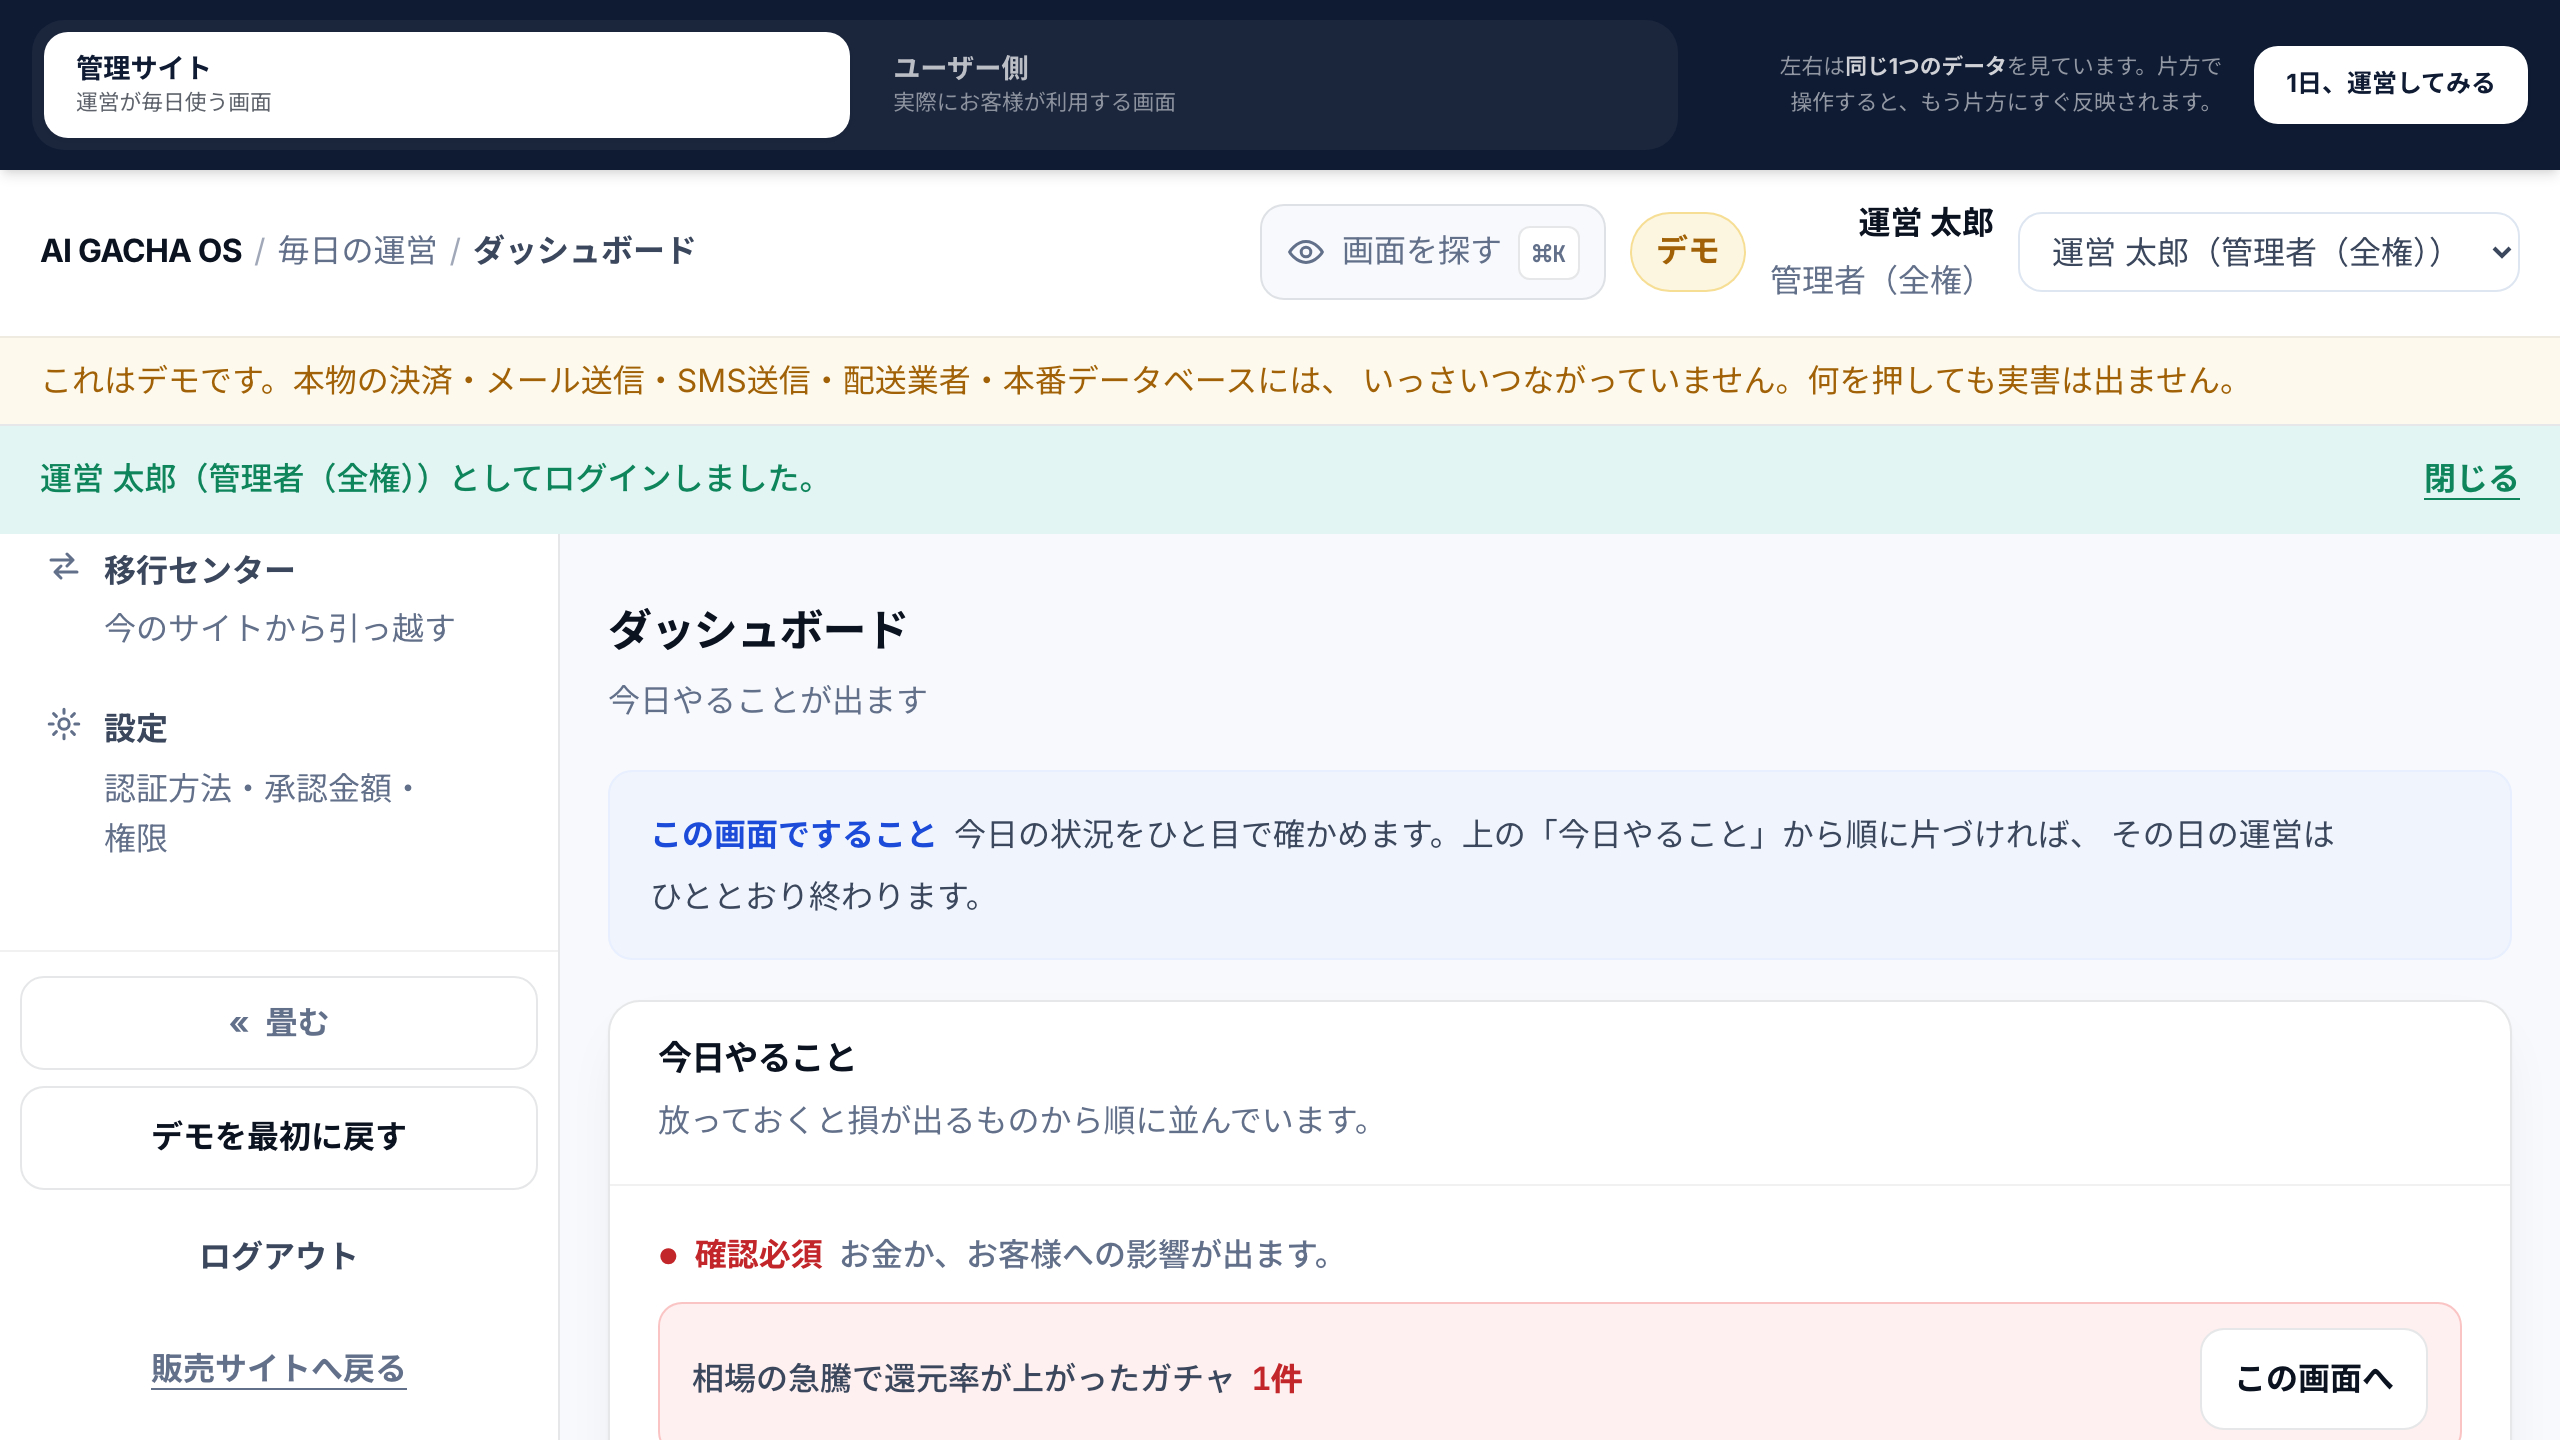
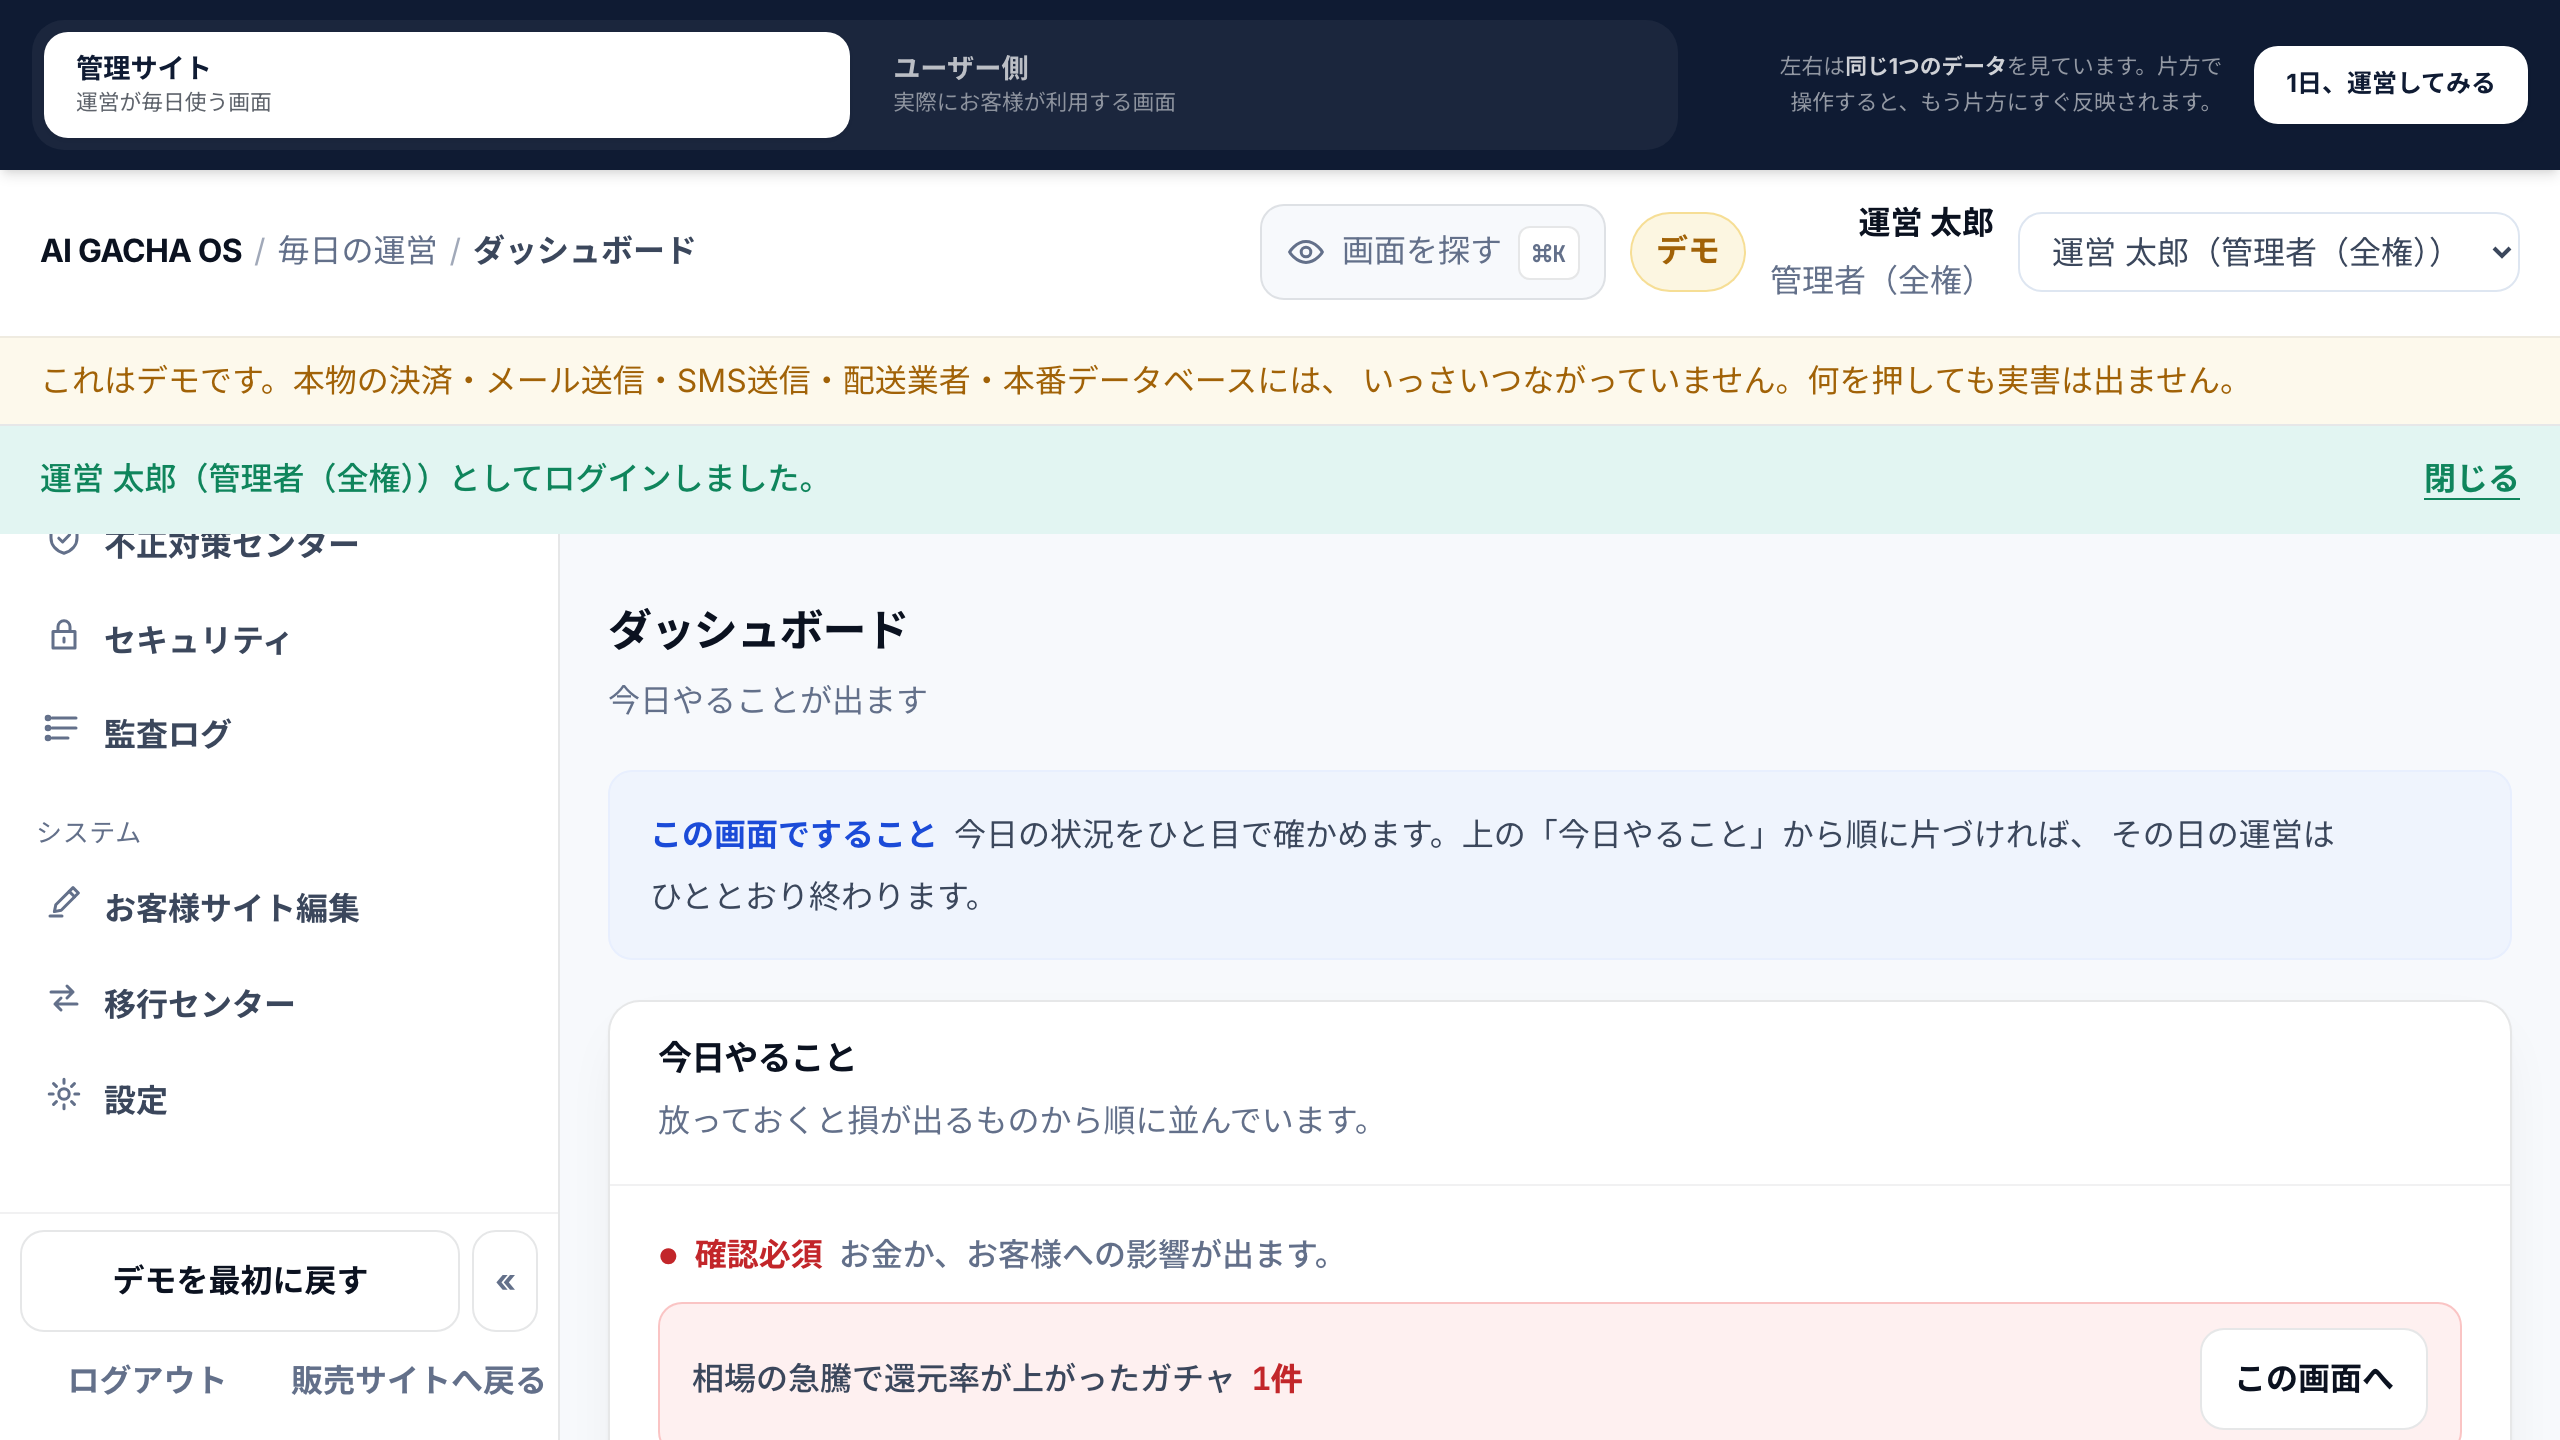
refactor(console): 左メニューの一覧性を上げる（項目52・6）
21項目すべてに名前＋説明の2行を出していたため1項目56pxとなり、
900pxの画面でも4項目しか見えず、毎回スクロールが必要だった。

・説明は、いま開いている項目にだけ出す（他はマウスで title、⌘K検索でも表示）
・最下部の4段積み（約190px常時占有）を2段に圧縮
表示できる項目が 4 → 9 に増加。

名前は aria-label に固定し、見た目を変えても到達確認が壊れないようにした。

検証：4解像度×21項目=84回の到達確認・テスト235件すべて通過

diff --git a/gacha-os-lp/components/console/Shell.tsx b/gacha-os-lp/components/console/Shell.tsx
@@ -397,45 +397,82 @@ function SideNav({
         ))}
       </div>
 
-      {/* 下：絶対にスクロールしない場所 */}
-      <div className="flex-none border-t border-edge2 bg-paper px-2.5 py-3 pb-[max(0.75rem,env(safe-area-inset-bottom))]">
-        {onToggleCollapse && (
-          <button
-            type="button"
-            onClick={onToggleCollapse}
-            aria-label={collapsed ? "メニューを広げる" : "メニューを畳む"}
-            className="nb mb-2 flex w-full items-center justify-center gap-2 rounded-xl border border-edge px-3 py-2 text-note font-bold text-slate3 hover:bg-mist"
-          >
-            <span aria-hidden>{collapsed ? "»" : "«"}</span>
-            {!collapsed && "畳む"}
-          </button>
-        )}
+      {/* ══ 下：絶対にスクロールしない場所 ══
 
+          ★ここを大きくしないこと。
+            ここが厚くなった分だけ、上の一覧が薄くなります。
+            以前は「畳む」「デモを最初に戻す」「ログアウト」
+            「販売サイトへ戻る」を縦4段に積んでいて、
+            それだけで約190px を常に使っていました。
+            900pxの画面では、メニュー一覧に残るのが
+            半分以下になってしまいます。
+
+            使う回数の少ないものほど、小さく置きます。
+            ログアウトは1日1回、販売サイトへ戻るはもっと少ない。
+            毎日何十回も使う一覧のほうに、場所を渡します。 */}
+      <div className="flex-none border-t border-edge2 bg-paper px-2.5 py-2 pb-[max(0.5rem,env(safe-area-inset-bottom))]">
         {collapsed ? (
-          <button
-            type="button"
-            onClick={onLogout}
-            title="ログアウト"
-            aria-label="ログアウト"
-            className="flex w-full items-center justify-center rounded-xl px-3 py-2.5 text-slate2 hover:bg-mist"
-          >
-            <Icon name="lock" />
-          </button>
-        ) : (
-          <div className="space-y-2">
-            <Btn full onClick={onReset}>
-              デモを最初に戻す
-            </Btn>
-            <Btn full kind="ghost" onClick={onLogout}>
-              ログアウト
-            </Btn>
-            <Link
-              href="/"
-              className="nb block rounded-xl px-4 py-2 text-center text-note font-bold text-slate3 underline underline-offset-4 hover:text-blue-ink"
+          <div className="space-y-1">
+            {onToggleCollapse && (
+              <button
+                type="button"
+                onClick={onToggleCollapse}
+                aria-label="メニューを広げる"
+                title="メニューを広げる"
+                className="nb flex w-full items-center justify-center rounded-xl border border-edge px-3 py-2 text-note font-bold text-slate3 hover:bg-mist"
+              >
+                <span aria-hidden>»</span>
+              </button>
+            )}
+            <button
+              type="button"
+              onClick={onLogout}
+              title="ログアウト"
+              aria-label="ログアウト"
+              className="flex w-full items-center justify-center rounded-xl px-3 py-2 text-slate2 hover:bg-mist"
             >
-              販売サイトへ戻る
-            </Link>
+              <Icon name="lock" />
+            </button>
           </div>
+        ) : (
+          <>
+            {/* 上の段：いちばん使うものと、畳む */}
+            <div className="flex items-stretch gap-1.5">
+              <div className="min-w-0 flex-1">
+                <Btn full onClick={onReset}>
+                  デモを最初に戻す
+                </Btn>
+              </div>
+              {onToggleCollapse && (
+                <button
+                  type="button"
+                  onClick={onToggleCollapse}
+                  aria-label="メニューを畳む"
+                  title="メニューを畳む"
+                  className="nb shrink-0 rounded-xl border border-edge px-2.5 text-note font-bold text-slate3 hover:bg-mist"
+                >
+                  <span aria-hidden>«</span>
+                </button>
+              )}
+            </div>
+
+            {/* 下の段：1日に1回あるかどうかの2つ */}
+            <div className="mt-1 flex items-center gap-1">
+              <button
+                type="button"
+                onClick={onLogout}
+                className="nb min-w-0 flex-1 rounded-lg px-1 py-1.5 text-note font-bold text-slate3 hover:bg-mist hover:text-slate2"
+              >
+                ログアウト
+              </button>
+              <Link
+                href="/"
+                className="nb min-w-0 flex-1 rounded-lg px-1 py-1.5 text-center text-note font-bold text-slate3 hover:bg-mist hover:text-blue-ink"
+              >
+                販売サイトへ戻る
+              </Link>
+            </div>
+          </>
         )}
       </div>
     </nav>
@@ -470,6 +507,29 @@ function Group({
  *
  * ★畳んでいるときも、名前が出る仕掛けを残すこと（title 属性）。
  *   印だけのメニューは、覚えるまでのあいだ使えません。
+ *
+ * ★説明文を、全部の項目に出しっぱなしにしないこと。
+ *
+ *   以前は21項目すべてに2行（名前＋説明）を出していました。
+ *   1項目が56pxになり、全部で1176px。
+ *   画面に入るのは4〜5項目だけで、
+ *   目当ての項目を探すのに毎回スクロールが要りました。
+ *   毎日8時間使う方には、この往復がそのまま疲れになります。
+ *
+ *   いまは、ふだんは名前だけ（1行）にして、
+ *   説明はいま開いている項目にだけ出します。
+ *   説明が要るのは「これから行く先を選ぶとき」ではなく
+ *   「いまどこにいるか確かめるとき」だからです。
+ *
+ *   ★説明を消したわけではないこと。
+ *     マウスを乗せれば title で出ます。
+ *     ⌘K の検索一覧では、全項目の説明が出ます。
+ *     初めての方が説明を読む道は、必ず残してあります。
+ *
+ * ★aria-label に名前を必ず入れること。
+ *   見た目を変えるたびに、機械が名前を取れなくなると、
+ *   到達確認（check-admin-reach.mjs）が壊れます。
+ *   名前の置き場所を1つに決めておきます。
  */
 function Row({
   m,
@@ -512,23 +572,30 @@ function Row({
       <button
         type="button"
         onClick={() => onGo(m.key)}
+        aria-label={m.label}
+        title={`${m.label}｜${m.note}`}
         aria-current={active ? "page" : undefined}
-        className={`flex w-full items-start gap-2.5 rounded-xl py-2.5 pl-3 pr-9 text-left transition-colors ${
-          active ? "bg-blue-pale text-blue-ink" : "text-slate2 hover:bg-mist"
+        className={`flex w-full items-start gap-2.5 rounded-xl py-2 pl-3 pr-9 text-left transition-colors ${
+          active
+            ? "bg-blue-pale text-blue-ink"
+            : "text-slate2 hover:bg-mist"
         }`}
       >
         <Icon
           name={m.icon}
-          className={`mt-0.5 ${active ? "text-blue-ink" : "text-slate3"}`}
+          className={`mt-px ${active ? "text-blue-ink" : "text-slate3"}`}
         />
-        <span className="min-w-0">
+        <span className="min-w-0 flex-1">
           <span className="flex items-center gap-2">
             <span className="nb text-note font-bold">{m.label}</span>
             {!allowed && <Badge>権限なし</Badge>}
           </span>
-          <span className="mt-0.5 block text-note leading-[1.6] text-slate3">
-            {m.note}
-          </span>
+          {/* 説明は、いま開いている項目にだけ */}
+          {active && (
+            <span className="mt-0.5 block text-note leading-[1.6] text-blue-ink/70">
+              {m.note}
+            </span>
+          )}
         </span>
       </button>
 

diff --git a/gacha-os-lp/docs/redesign/admin-shell/README.md b/gacha-os-lp/docs/redesign/admin-shell/README.md
@@ -23,18 +23,18 @@
 
 | 画面の大きさ | 操作 | 下端 | 画面 | 届くか |
 | --- | --- | --- | --- | --- |
-| 1440x900 | デモを最初に戻す | 775px | 900px | ✓ |
-| 1440x900 | ログアウト | 834px | 900px | ✓ |
-| 1440x900 | 販売サイトへ戻る | 888px | 900px | ✓ |
-| 1366x768 | デモを最初に戻す | 643px | 768px | ✓ |
-| 1366x768 | ログアウト | 702px | 768px | ✓ |
-| 1366x768 | 販売サイトへ戻る | 756px | 768px | ✓ |
-| 1280x720 | デモを最初に戻す | 595px | 720px | ✓ |
-| 1280x720 | ログアウト | 654px | 720px | ✓ |
-| 1280x720 | 販売サイトへ戻る | 708px | 720px | ✓ |
-| 1024x768 | デモを最初に戻す | 643px | 768px | ✓ |
-| 1024x768 | ログアウト | 702px | 768px | ✓ |
-| 1024x768 | 販売サイトへ戻る | 756px | 768px | ✓ |
+| 1440x900 | デモを最初に戻す | 846px | 900px | ✓ |
+| 1440x900 | ログアウト | 892px | 900px | ✓ |
+| 1440x900 | 販売サイトへ戻る | 892px | 900px | ✓ |
+| 1366x768 | デモを最初に戻す | 714px | 768px | ✓ |
+| 1366x768 | ログアウト | 760px | 768px | ✓ |
+| 1366x768 | 販売サイトへ戻る | 760px | 768px | ✓ |
+| 1280x720 | デモを最初に戻す | 666px | 720px | ✓ |
+| 1280x720 | ログアウト | 712px | 720px | ✓ |
+| 1280x720 | 販売サイトへ戻る | 712px | 720px | ✓ |
+| 1024x768 | デモを最初に戻す | 714px | 768px | ✓ |
+| 1024x768 | ログアウト | 760px | 768px | ✓ |
+| 1024x768 | 販売サイトへ戻る | 760px | 768px | ✓ |
 
 ## 写真
 
